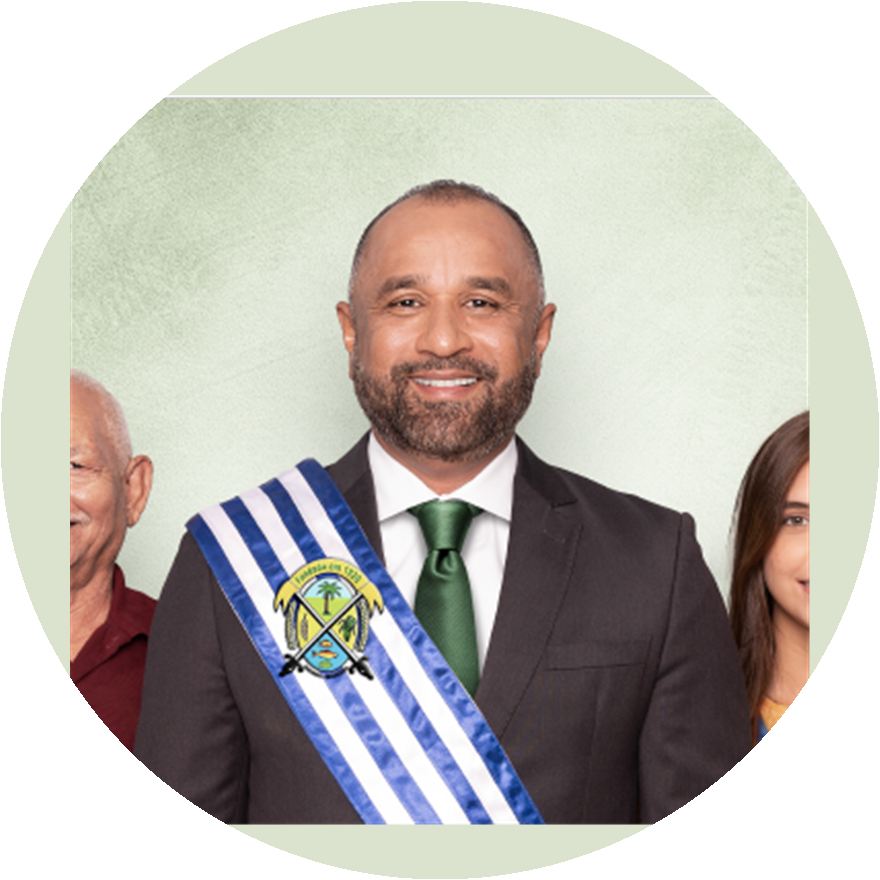
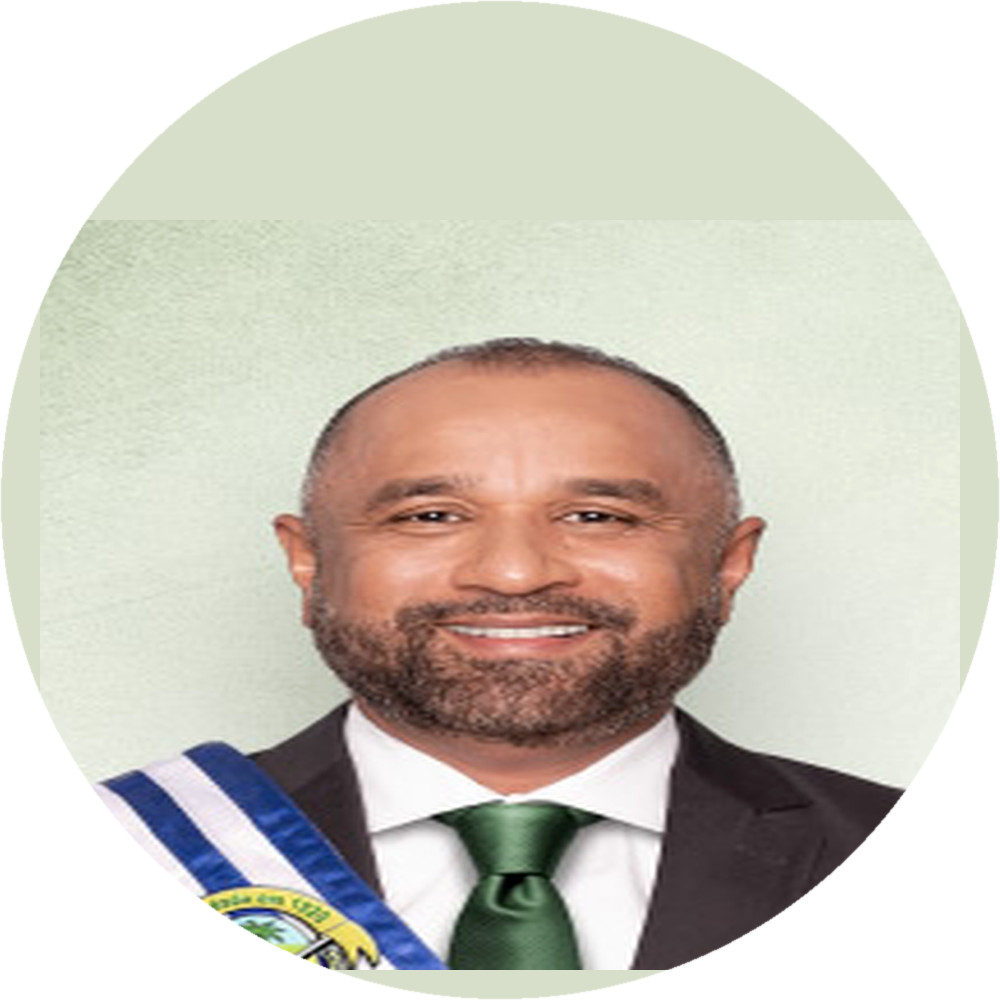
Replace mayor photo with tight solo crop from official perfil image.

diff --git a/public/index.html b/public/index.html
@@ -99,7 +99,7 @@
     html.brand-ready body.landing { visibility: visible; }
   </style>
   <link rel="stylesheet" href="/styles.css" />
-  <link rel="stylesheet" href="/home.css?v=8" />
+  <link rel="stylesheet" href="/home.css?v=9" />
   <link rel="stylesheet" href="https://unpkg.com/leaflet@1.9.4/dist/leaflet.css" />
   <link rel="icon" href="/assets/logo-prefeitura.png" />
   <script>
@@ -430,7 +430,7 @@
   <section class="prefeita-spotlight prefeito-spotlight" id="prefeitoSpotlight">
     <div class="prefeita-spotlight-inner">
       <div class="prefeita-photo">
-        <img id="prefeitoFoto" src="/assets/foto-prefeito-bacabal.png?v=7" alt="Prefeito Roberto Costa" width="220" height="220" decoding="async" />
+        <img id="prefeitoFoto" src="/assets/foto-prefeito-bacabal.jpg?v=8" alt="Prefeito Roberto Costa" width="220" height="220" decoding="async" />
       </div>
       <div class="prefeita-copy">
         <p class="eyebrow" id="prefeitoEyebrow">Gabinete do Prefeito</p>

diff --git a/public/home.css b/public/home.css
@@ -1005,14 +1005,8 @@ body:not([data-cidade]) .footer-social a {
   background: linear-gradient(135deg, #c45a00 0%, #ff8000 45%, #e8912a 100%);
 }
 
-.prefeito-spotlight .prefeita-photo {
-  background: transparent;
-}
-
 .prefeito-spotlight .prefeita-photo img {
-  object-fit: cover;
   object-position: center center;
-  transform: none;
 }
 
 .prefeita-spotlight-inner {
@@ -1045,7 +1039,7 @@ body:not([data-cidade]) .footer-social a {
   object-fit: cover;
   object-position: center 18%;
   display: block;
-  border-radius: 0;
+  border-radius: 50%;
   border: none;
   box-shadow: none;
   transform: none;
